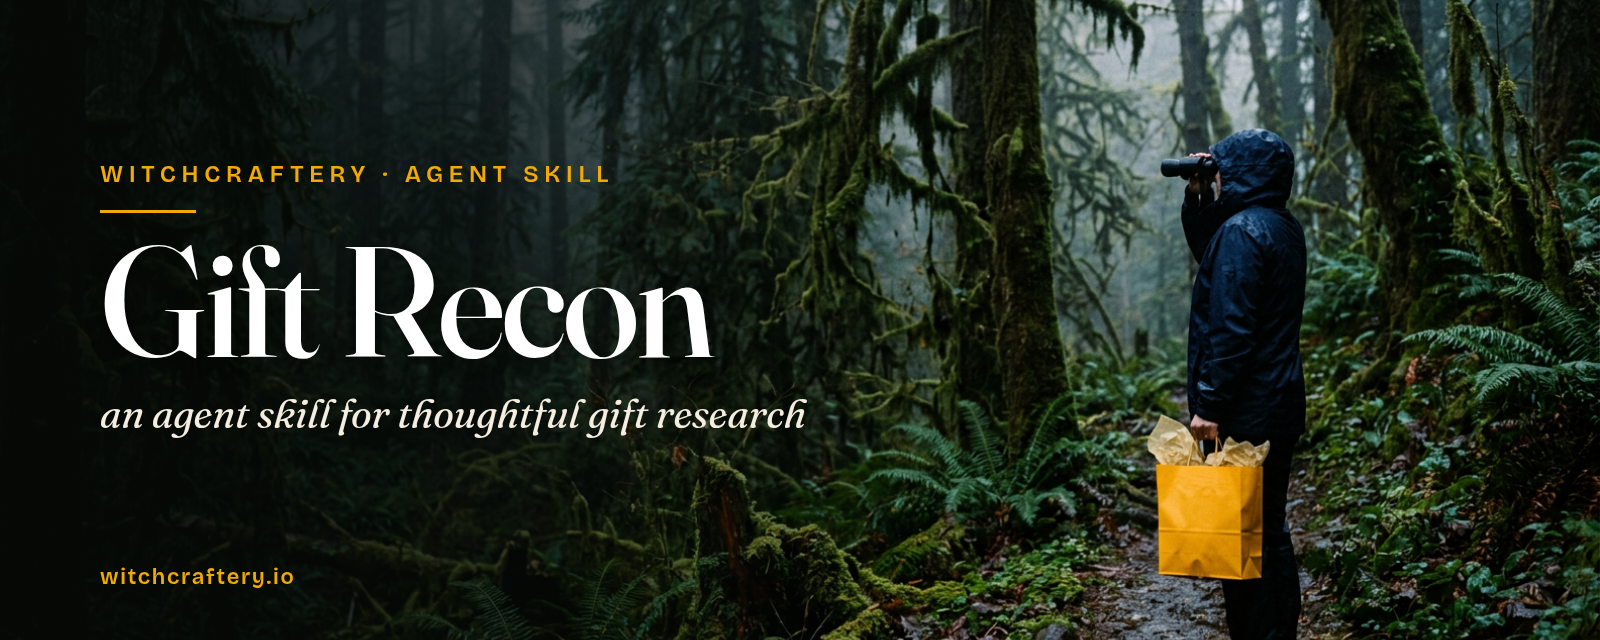
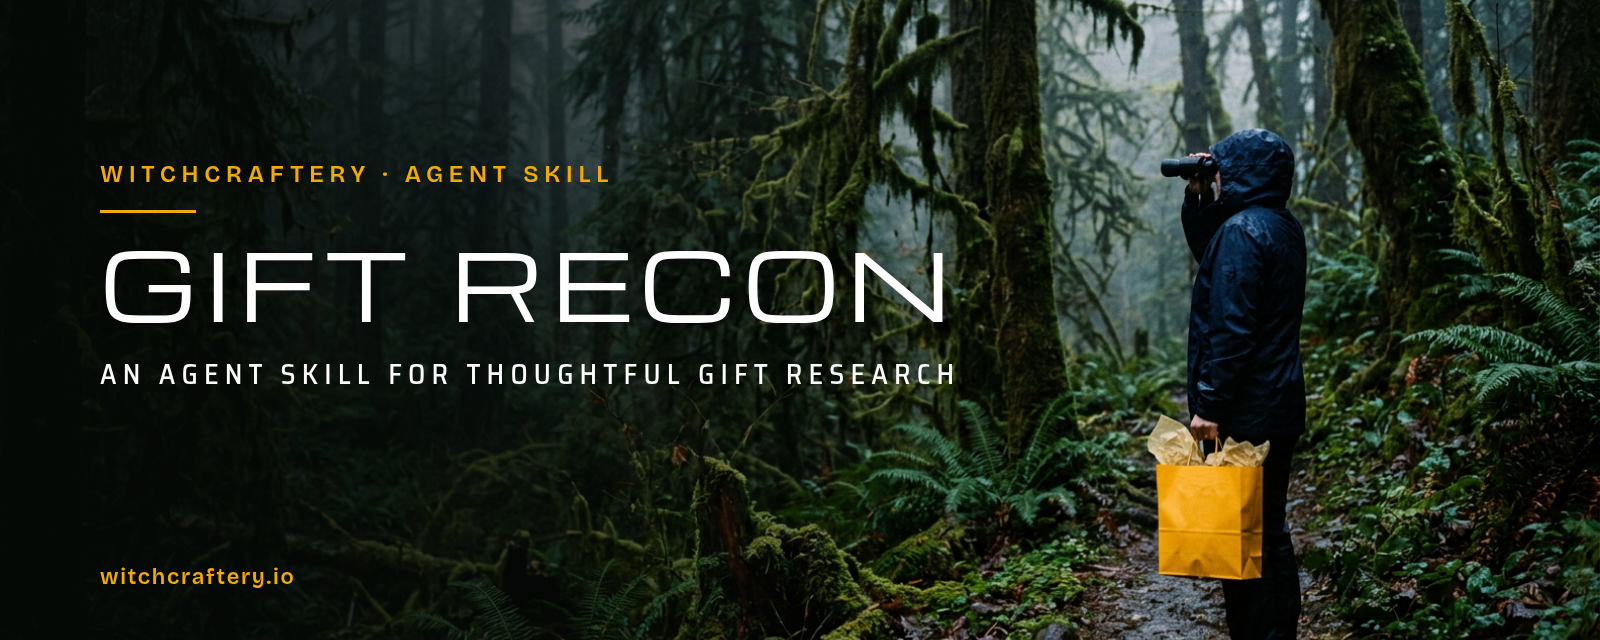
Hero: Michroma title + Saira Semi Condensed subtitle

Changed region(s): [[0.0625, 0.375, 0.5938, 0.6875]]

diff --git a/assets/hero.html b/assets/hero.html
@@ -1,10 +1,10 @@
-<html><head><link href="https://fonts.googleapis.com/css2?family=Fraunces:ital,opsz,wght@0,9..144,500;1,9..144,400&family=Bricolage+Grotesque:opsz,wght@12..96,600&display=block" rel="stylesheet">
+<html><head><link href="https://fonts.googleapis.com/css2?family=Michroma&family=Saira+Semi+Condensed:wght@500&family=Bricolage+Grotesque:opsz,wght@12..96,600&display=block" rel="stylesheet">
 <style>body{margin:0;width:1600px;height:640px;overflow:hidden;font-family:'Bricolage Grotesque';background:#0d130e url(bg.png) center 70%/cover no-repeat}
 .g{position:absolute;inset:0;background:linear-gradient(90deg,rgba(6,10,7,.88) 0,rgba(6,10,7,.65) 32%,rgba(6,10,7,.15) 55%,rgba(0,0,0,0) 70%)}
 .t{position:absolute;left:100px;top:160px;color:#fff}
 .k{font-size:24px;letter-spacing:.24em;text-transform:uppercase;color:#F2A900}
 .r{width:96px;height:3px;background:#F2A900;margin:22px 0 4px}
-h1{font-family:Fraunces;font-weight:500;font-size:156px;margin:6px 0;letter-spacing:-.02em;line-height:1.05;text-shadow:0 2px 20px rgba(0,0,0,.4)}
-p{font-family:Fraunces;font-style:italic;font-size:40px;margin:0;color:#f5ede0}
+h1{font-family:Michroma;font-weight:400;font-size:92px;margin:18px 0 20px;letter-spacing:.08em;line-height:1.1;text-transform:uppercase;text-shadow:0 2px 20px rgba(0,0,0,.4)}
+p{font-family:'Saira Semi Condensed';font-weight:500;font-size:28px;margin:0;color:#fff;text-transform:uppercase;letter-spacing:.22em}
 .f{position:absolute;left:100px;bottom:50px;font-size:22px;color:#F2A900;letter-spacing:.08em}</style></head>
 <body><div class="g"></div><div class="t"><div class="k">Witchcraftery · Agent Skill</div><div class="r"></div><h1>Gift Recon</h1><p>an agent skill for thoughtful gift research</p></div><div class="f">witchcraftery.io</div></body></html>
